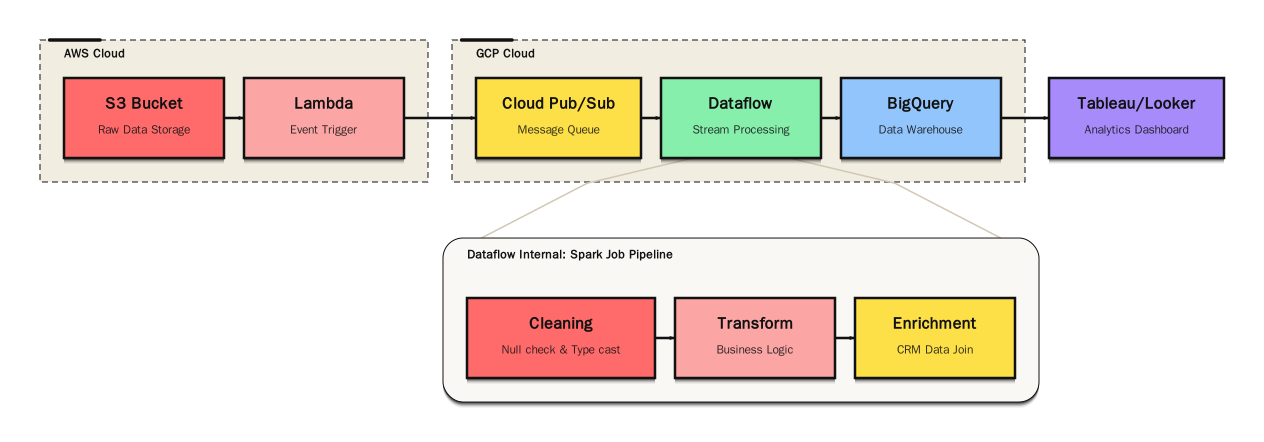
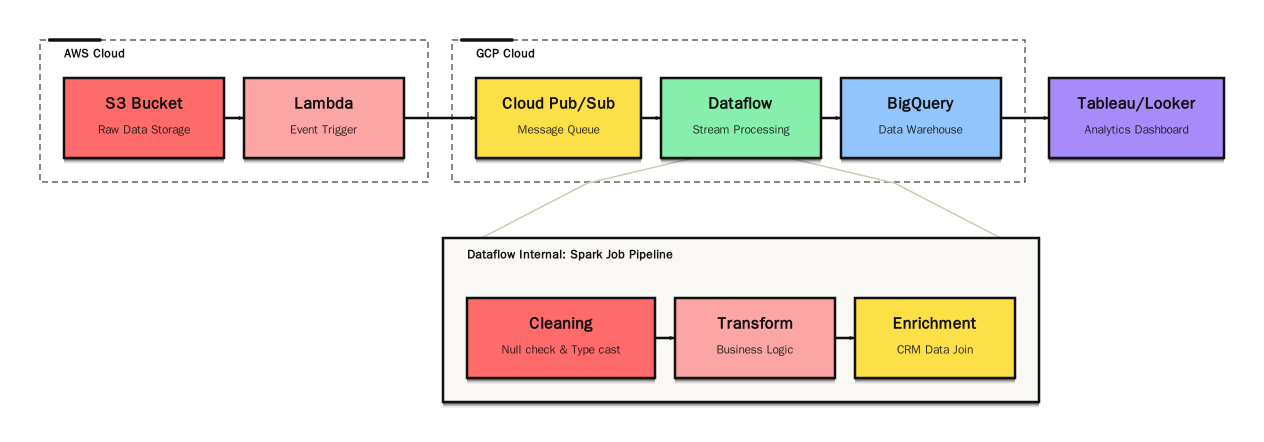
feat: update themes and assets for improved presentation and user experience

Changed region(s): [[0.0309, 0.0882, 0.8331, 0.4118], [0.3394, 0.5294, 0.8331, 0.8529], [0.3394, 0.8824, 0.8331, 0.9412]]

diff --git a/src/frameplot/theme.py b/src/frameplot/theme.py
@@ -128,13 +128,15 @@ class Theme:
             node_text_color="#111111",
             edge_color="#111111",
             group_stroke="#111111",
-            group_fill="#E8E1CD",
+            group_fill="transparent",
             group_label_color="#111111",
             detail_panel_fill="#FAF8F5",
             detail_panel_stroke="#111111",
+            detail_panel_stroke_width=2.5,
             detail_panel_title_color="#111111",
             detail_panel_guide_color="#D1C8B4",
-            group_fill_opacity=0.6,
+            detail_panel_corner_radius=0.0,
+            group_fill_opacity=0.0,
             stroke_width=2.5,
             corner_radius=0.0,
             group_corner_radius=0.0,
@@ -144,6 +146,112 @@ class Theme:
             color_palette=(
                 "#FF6B6B", "#FCA5A5", "#FDE047", "#86EFAC",
                 "#93C5FD", "#A78BFA", "#F472B6", "#FDBA74"
+            )
+        )
+
+    @classmethod
+    def dark(cls) -> 'Theme':
+        """A modern dark mode theme with slate and zinc tones."""
+        return cls(
+            background_color="#0F172A",  # Slate 900
+            node_fill="#1E293B",  # Slate 800
+            node_stroke="#475569",  # Slate 600
+            node_text_color="#F8FAFC",  # Slate 50
+            edge_color="#94A3B8",  # Slate 400
+            group_stroke="#334155",  # Slate 700
+            group_fill="#0F172A",  # Slate 900
+            group_label_color="#CBD5E1",  # Slate 300
+            detail_panel_fill="#1E293B",
+            detail_panel_stroke="#334155",
+            detail_panel_title_color="#94A3B8",
+            detail_panel_guide_color="#1E293B",
+            group_fill_opacity=0.4,
+            shadow_opacity=0.3,
+            color_palette=(
+                "#F87171", "#FACC15", "#4ADE80", "#2DD4BF",
+                "#60A5FA", "#A78BFA", "#F472B6", "#FB923C"
+            )
+        )
+
+    @classmethod
+    def cyberpunk(cls) -> 'Theme':
+        """A high-contrast neon theme with sharp corners."""
+        return cls(
+            background_color="#050511",
+            node_fill="#000000",
+            node_stroke="#FF00FF",  # Magenta
+            node_text_color="#00FF41",  # Neon Green
+            edge_color="#00FFFF",  # Cyan
+            group_stroke="#00FFFF",
+            group_fill="#110022",
+            group_label_color="#FFFF00",  # Yellow
+            detail_panel_fill="#000000",
+            detail_panel_stroke="#FF00FF",
+            detail_panel_stroke_width=2.0,
+            detail_panel_title_color="#00FF41",
+            detail_panel_guide_color="#220022",
+            detail_panel_corner_radius=0.0,
+            group_fill_opacity=0.6,
+            stroke_width=2.0,
+            corner_radius=0.0,
+            group_corner_radius=0.0,
+            shadow_blur=8.0,
+            shadow_opacity=0.8,
+            shadow_offset_y=0.0,
+            color_palette=(
+                "#FF00FF", "#00FFFF", "#00FF41", "#FFFF00",
+                "#FF003C", "#B026FF", "#04D9FF", "#FF71CE"
+            )
+        )
+
+    @classmethod
+    def pastel(cls) -> 'Theme':
+        """A soft, friendly theme with pastel tones and rounded corners."""
+        return cls(
+            background_color="#FDFBF7",
+            node_fill="#FFFFFF",
+            node_stroke="#FFB3BA",
+            node_text_color="#5D5D5D",
+            edge_color="#BAE1FF",
+            group_stroke="#FFFFBA",
+            group_fill="#FFDFBA",
+            group_label_color="#8B8B8B",
+            detail_panel_fill="#FFFFFF",
+            detail_panel_stroke="#BAE1FF",
+            detail_panel_title_color="#8B8B8B",
+            detail_panel_guide_color="#E8F4FF",
+            group_fill_opacity=0.3,
+            corner_radius=20.0,
+            group_corner_radius=24.0,
+            color_palette=(
+                "#FFB3BA", "#FFDFBA", "#FFFFBA", "#BAFFC9",
+                "#BAE1FF", "#E8BAFF", "#FFB3F7", "#FFC6FF"
+            )
+        )
+
+    @classmethod
+    def monochrome(cls) -> 'Theme':
+        """A grayscale, high-clarity theme perfect for printing."""
+        return cls(
+            background_color="#FFFFFF",
+            node_fill="#FFFFFF",
+            node_stroke="#000000",
+            node_text_color="#000000",
+            edge_color="#000000",
+            group_stroke="#000000",
+            group_fill="#F0F0F0",
+            group_label_color="#000000",
+            detail_panel_fill="#FFFFFF",
+            detail_panel_stroke="#000000",
+            detail_panel_title_color="#000000",
+            detail_panel_guide_color="#E0E0E0",
+            group_fill_opacity=1.0,
+            shadow_blur=0.0,
+            shadow_opacity=0.0,
+            shadow_offset_y=0.0,
+            color_palette=(
+                "#000000", "#333333", "#666666", "#999999",
+                "#CCCCCC", "#E5E5E5", "#111111", "#444444"
             )
         )
 

diff --git a/examples/hero_new.py b/examples/hero_new.py
@@ -2,7 +2,7 @@
 
 def main():
     # 1. 테마 설정 (프리셋 사용으로 대폭 간소화)
-    dark_theme = Theme.presentation()
+    dark_theme = Theme.retro()  # 레트로 스타일 테마 적용 (노드와 엣지 색상 조정 포함)
 
     # 2. 메인 파이프라인 노드
     nodes = [

diff --git a/examples/quickstart.py b/examples/quickstart.py
@@ -16,7 +16,7 @@ pipeline = Pipeline(
     groups=[
         Group("g1", "Execution", ["start", "fetch", "retry"], edge_ids=["e2"]),
     ],
-    theme=Theme.presentation()
+    theme=Theme.dark()
 )
 
 pipeline.save_svg("docs/assets/quickstart.svg")

diff --git a/examples/sar_backbone_example.py b/examples/sar_backbone_example.py
@@ -79,7 +79,7 @@ def build_pipeline() -> Pipeline:
         nodes=nodes,
         edges=edges,
         detail_panel=detail_panel,
-        theme=Theme.presentation()
+        theme=Theme.pastel()
     )
 
 def main() -> None:
